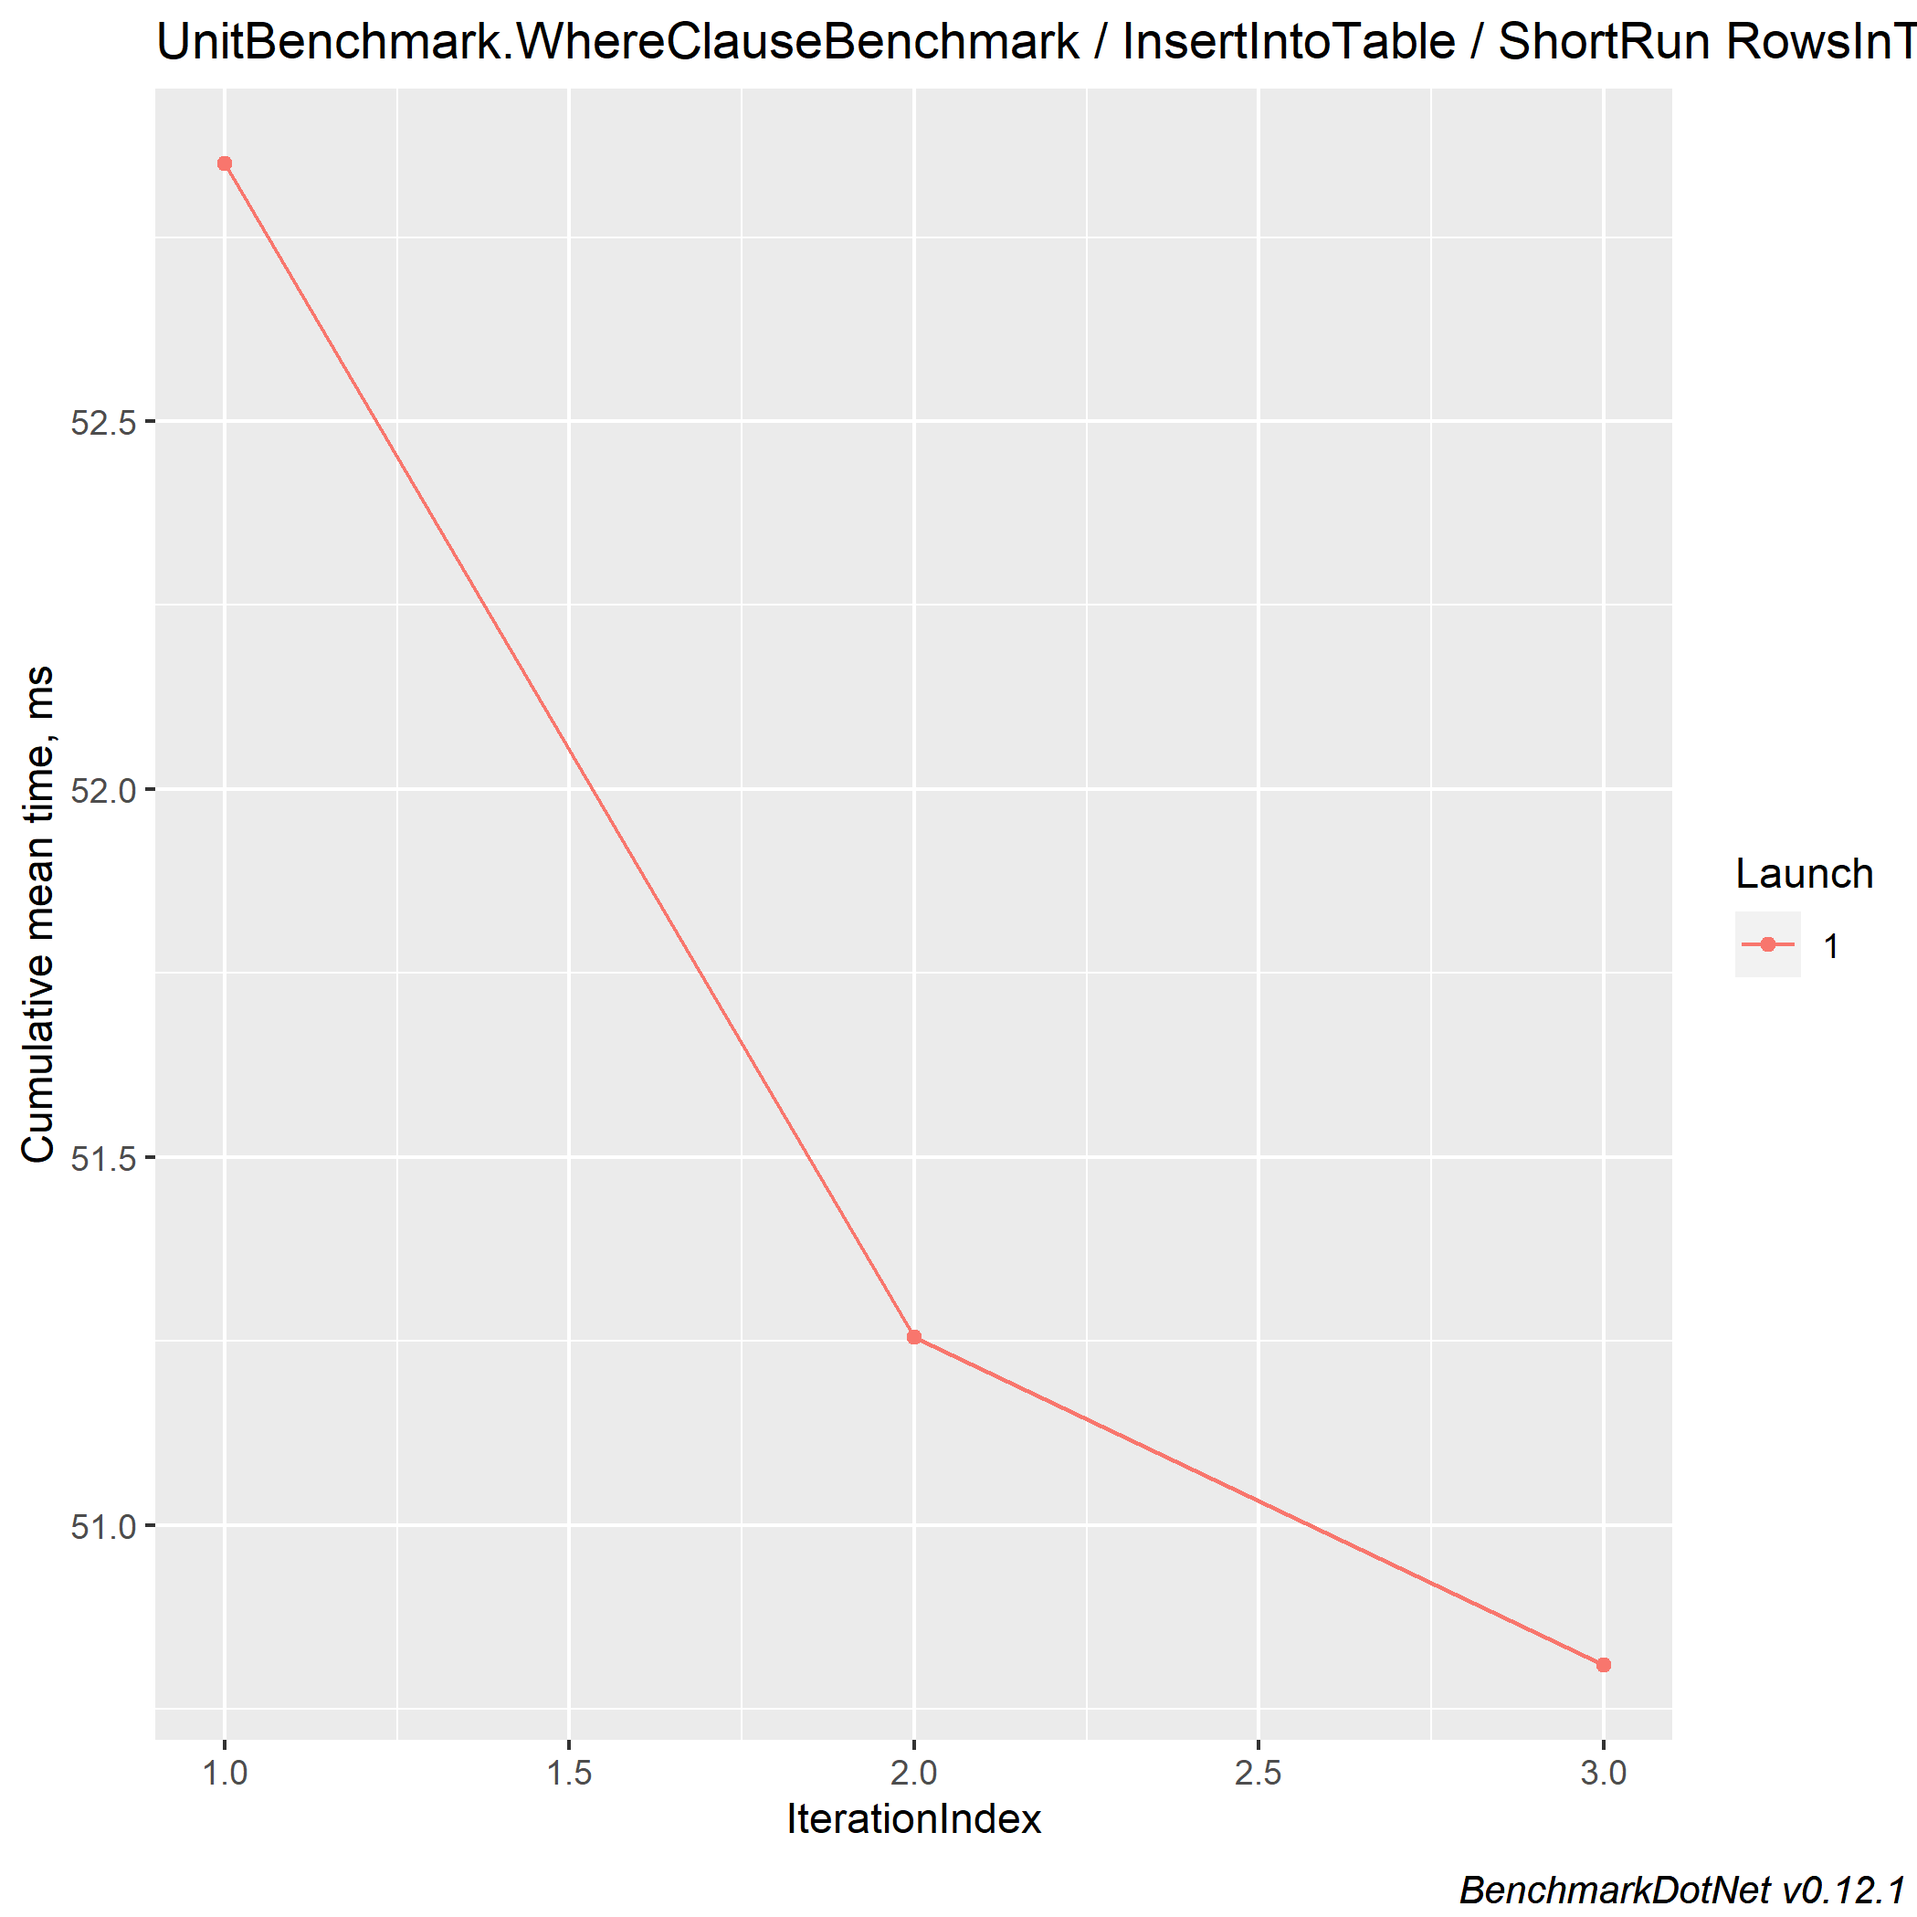
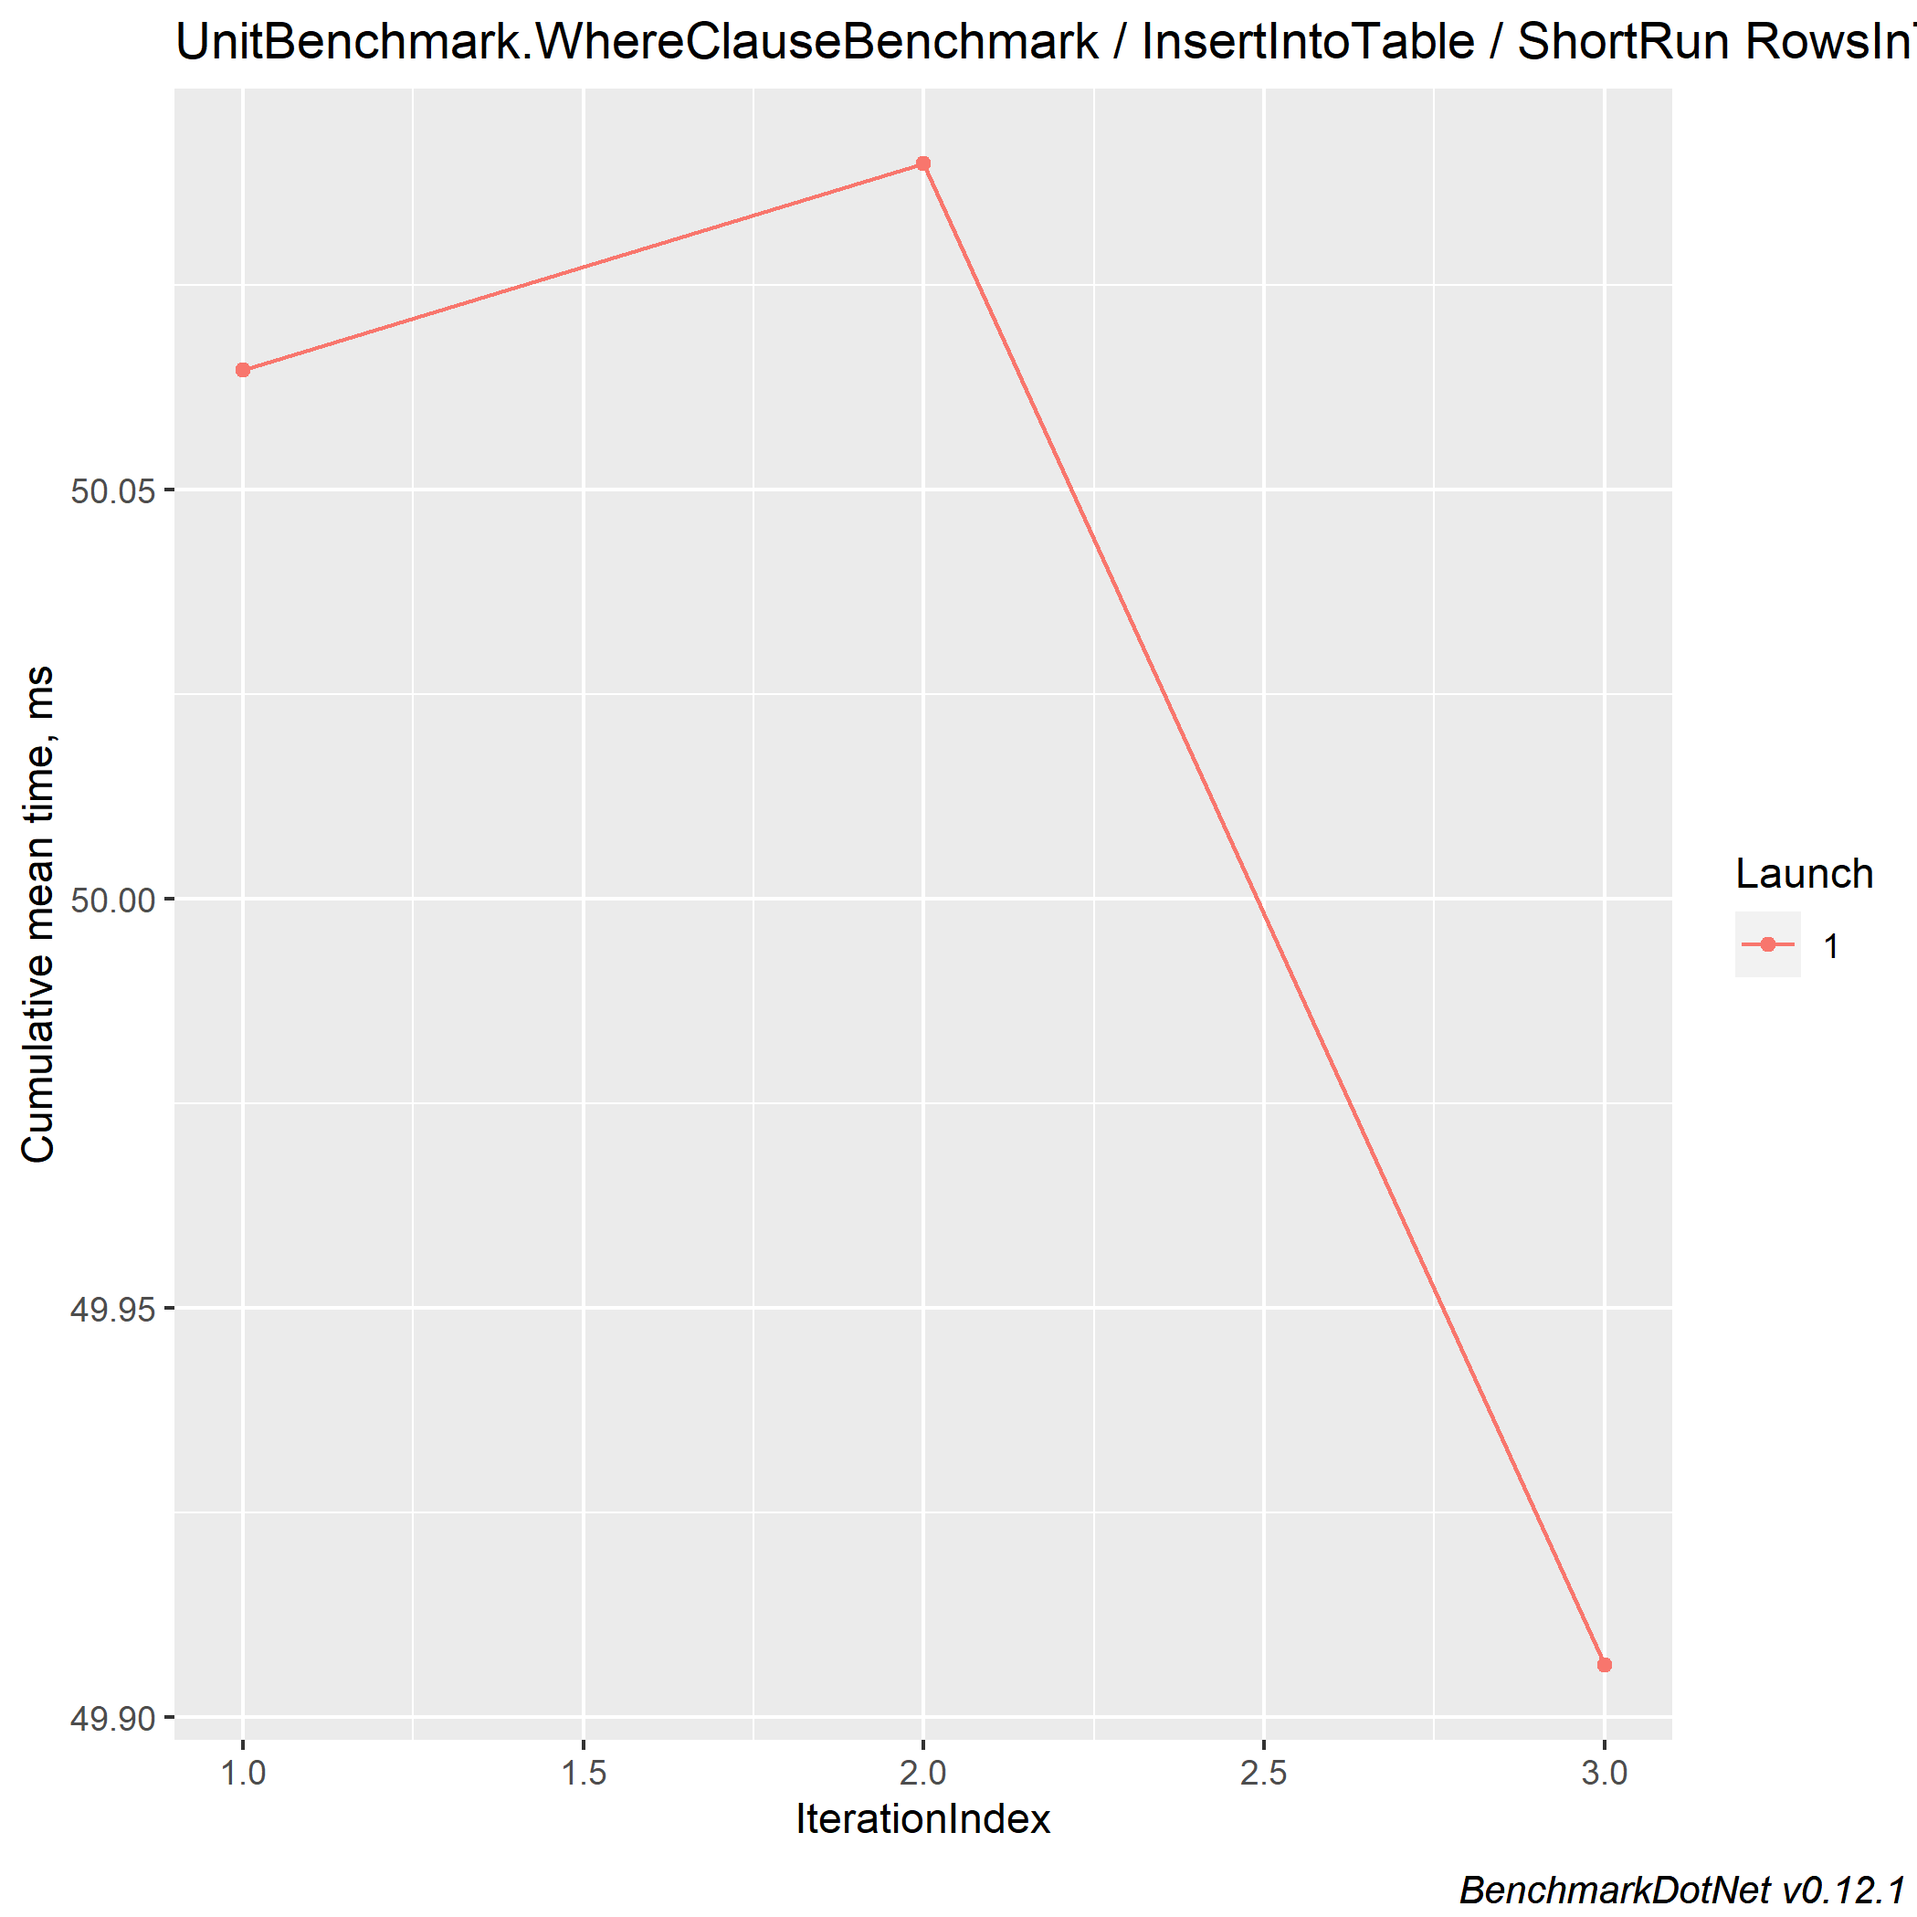
Updating perf for where with more rows.

diff --git a/UnitBenchmark/BenchmarkDotNet.Artifacts/results/UnitBenchmark.WhereClauseBenchmark-report.html b/UnitBenchmark/BenchmarkDotNet.Artifacts/results/UnitBenchmark.WhereClauseBenchmark-report.html
@@ -2,7 +2,7 @@
 <html lang='en'>
 <head>
 <meta charset='utf-8' />
-<title>UnitBenchmark.WhereClauseBenchmark-20200921-183446</title>
+<title>UnitBenchmark.WhereClauseBenchmark-20200921-184501</title>
 
 <style type="text/css">
 	table { border-collapse: collapse; display: block; width: 100%; overflow: auto; }
@@ -26,11 +26,10 @@ WarmupCount=3
 <table>
 <thead><tr><th>   Method</th><th>RowsInTableNumber</th><th>Mean</th><th>Error</th><th>StdDev</th>
 </tr>
-</thead><tbody><tr><td>InsertIntoTable</td><td>10000</td><td>5.087 ms</td><td>3.046 ms</td><td>0.1670 ms</td>
-</tr><tr><td>InsertIntoTable</td><td>20000</td><td>10.260 ms</td><td>2.267 ms</td><td>0.1242 ms</td>
-</tr><tr><td>InsertIntoTable</td><td>40000</td><td>20.021 ms</td><td>20.999 ms</td><td>1.1510 ms</td>
-</tr><tr><td>InsertIntoTable</td><td>80000</td><td>38.995 ms</td><td>6.517 ms</td><td>0.3572 ms</td>
-</tr><tr><td>InsertIntoTable</td><td>100000</td><td>50.810 ms</td><td>32.311 ms</td><td>1.7711 ms</td>
+</thead><tbody><tr><td>InsertIntoTable</td><td>100000</td><td>49.91 ms</td><td>5.811 ms</td><td>0.319 ms</td>
+</tr><tr><td>InsertIntoTable</td><td>200000</td><td>142.35 ms</td><td>63.825 ms</td><td>3.498 ms</td>
+</tr><tr><td>InsertIntoTable</td><td>500000</td><td>366.09 ms</td><td>125.709 ms</td><td>6.891 ms</td>
+</tr><tr><td>InsertIntoTable</td><td>1000000</td><td>704.91 ms</td><td>202.359 ms</td><td>11.092 ms</td>
 </tr></tbody></table>
 </body>
 </html>

diff --git a/UnitBenchmark/WhereClauseBenchmark.cs b/UnitBenchmark/WhereClauseBenchmark.cs
@@ -9,7 +9,7 @@ namespace UnitBenchmark
     [RPlotExporter]
     public class WhereClauseBenchmark
     {
-        [Params(10000, 20000, 40000, 80000, 100000)]
+        [Params(100000, 200000, 500000, 1000000)]
         public int RowsInTableNumber;
 
         private QueryEntryGate queryEntryGate;

diff --git a/UnitBenchmark/BenchmarkDotNet.Artifacts/results/UnitBenchmark.WhereClauseBenchmark-report-github.md b/UnitBenchmark/BenchmarkDotNet.Artifacts/results/UnitBenchmark.WhereClauseBenchmark-report-github.md
@@ -10,10 +10,9 @@ Job=ShortRun  IterationCount=3  LaunchCount=1
 WarmupCount=3  
 
 ```
-|          Method | RowsInTableNumber |      Mean |     Error |    StdDev |
-|---------------- |------------------ |----------:|----------:|----------:|
-| **InsertIntoTable** |             **10000** |  **5.087 ms** |  **3.046 ms** | **0.1670 ms** |
-| **InsertIntoTable** |             **20000** | **10.260 ms** |  **2.267 ms** | **0.1242 ms** |
-| **InsertIntoTable** |             **40000** | **20.021 ms** | **20.999 ms** | **1.1510 ms** |
-| **InsertIntoTable** |             **80000** | **38.995 ms** |  **6.517 ms** | **0.3572 ms** |
-| **InsertIntoTable** |            **100000** | **50.810 ms** | **32.311 ms** | **1.7711 ms** |
+|          Method | RowsInTableNumber |      Mean |      Error |    StdDev |
+|---------------- |------------------ |----------:|-----------:|----------:|
+| **InsertIntoTable** |            **100000** |  **49.91 ms** |   **5.811 ms** |  **0.319 ms** |
+| **InsertIntoTable** |            **200000** | **142.35 ms** |  **63.825 ms** |  **3.498 ms** |
+| **InsertIntoTable** |            **500000** | **366.09 ms** | **125.709 ms** |  **6.891 ms** |
+| **InsertIntoTable** |           **1000000** | **704.91 ms** | **202.359 ms** | **11.092 ms** |
